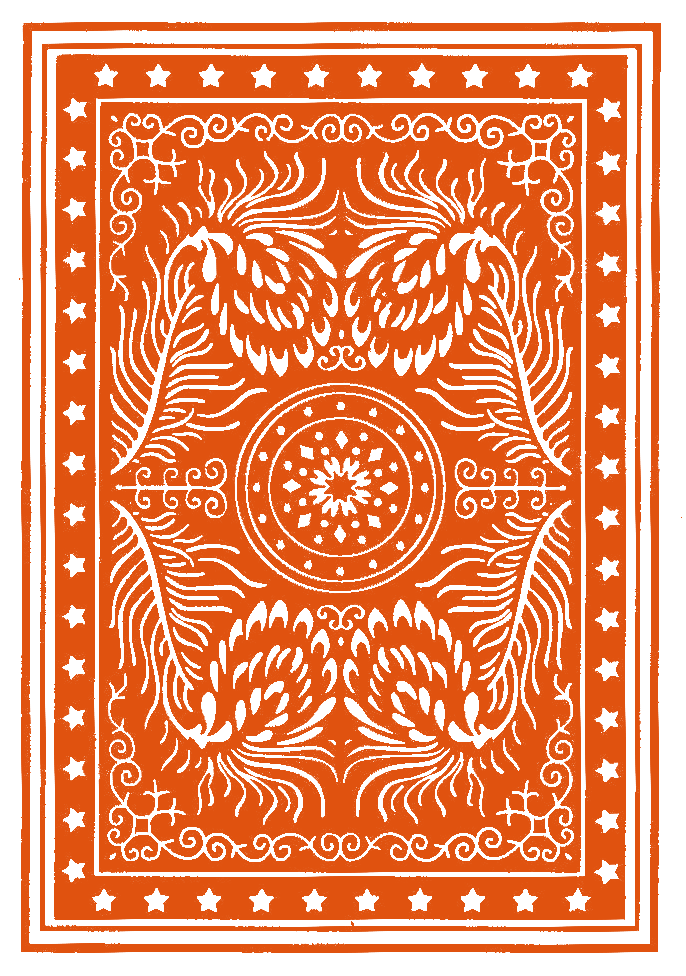
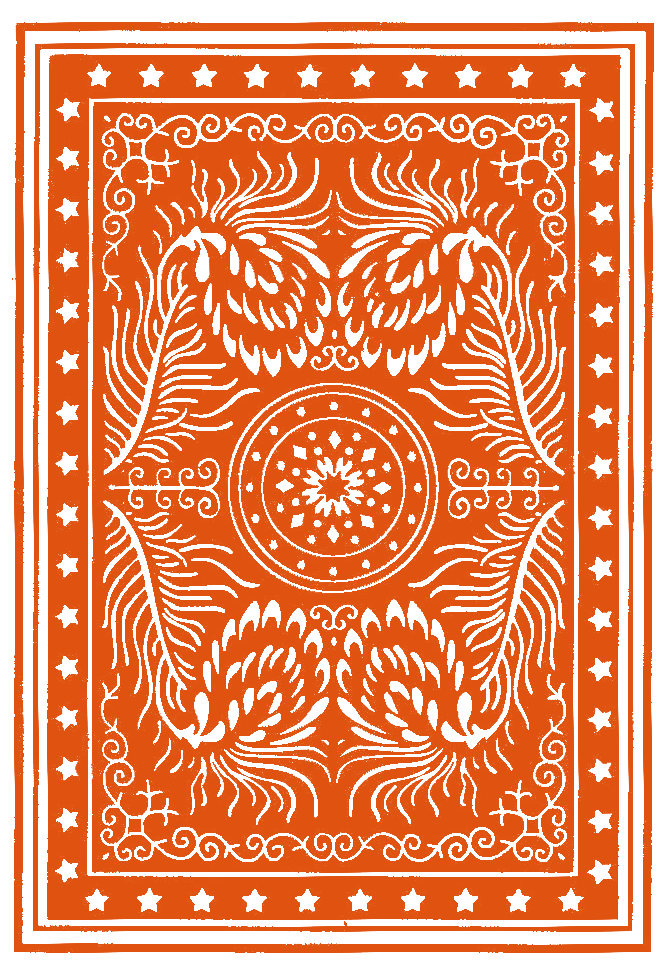
- add the card images as resources of the application     - for now only the card back image, and the two of clubs     - resize the 'card_back_orange.png' image to be the same size as the other card images - Card class     - add a 'Suit' and 'Value' enum, that will identify the card     - use the im

diff --git a/App.xaml b/App.xaml
@@ -4,6 +4,7 @@
              xmlns:local="clr-namespace:GoldMine"
              StartupUri="main_window.xaml">
     <Application.Resources>
-         
+        <BitmapImage x:Key="card_back" UriSource="images/card_back_orange.png" />
+        <BitmapImage x:Key="two_of_clubs" UriSource="images/two_of_clubs.png" />
     </Application.Resources>
 </Application>

diff --git a/card.cs b/card.cs
@@ -5,6 +5,7 @@ using System.Text;
 using System.Threading.Tasks;
 using System.Windows;
 using System.Windows.Controls;
+using System.Windows.Media;
 using System.Windows.Media.Imaging;
 using System.Windows.Input;
 
@@ -13,11 +14,37 @@ namespace GoldMine
     {
     public class Card : Image
         {
-        public Card()
+        public enum Suit { clubs, diamonds, hearts, spades };
+        public enum Value { ace, two, three, four, five, six, seven, eight, nine, ten, jack, queen, king };
+
+
+        private Suit suit;
+        private Value value;
+
+
+        public Card( Suit suit, Value value )
             {
-            var uri = new Uri( @"images/card_back_orange.png", UriKind.Relative );
-            var backSource = new BitmapImage( uri );
-            this.Source = backSource;
+            this.suit = suit;
+            this.value = value;
+
+            this.showBack();
+            }
+
+
+        public void showBack()
+            {
+            var mainResources = Application.Current.Resources;
+
+            this.Source = (ImageSource) mainResources[ "card_back" ];
+            }
+
+
+        public void showFront()
+            {
+            var mainResources = Application.Current.Resources;
+
+            var imageName = this.value.ToString() + "_of_" + this.suit.ToString();
+            this.Source = (ImageSource) mainResources[ imageName ];
             }
 
 

diff --git a/main_window.xaml.cs b/main_window.xaml.cs
@@ -89,7 +89,7 @@ namespace GoldMine
             {
             for (int a = 0 ; a < 7 ; a++)
                 {
-                var card = new Card();
+                var card = new Card( Card.Suit.clubs, Card.Value.two );
 
                 card.MouseDown += this.onMouseDown;
                 card.MouseMove += this.onMouseMove;
@@ -112,9 +112,11 @@ namespace GoldMine
                 {
                 int lastPosition = count - 1;
 
-                var card = this.stock.Children[ lastPosition ];
+                var card = (Card) this.stock.Children[ lastPosition ];
                 this.stock.Children.RemoveAt( lastPosition );
                 this.waste.Children.Add( card );
+
+                card.showFront();
 
                 count = this.stock.Children.Count;
                 }
